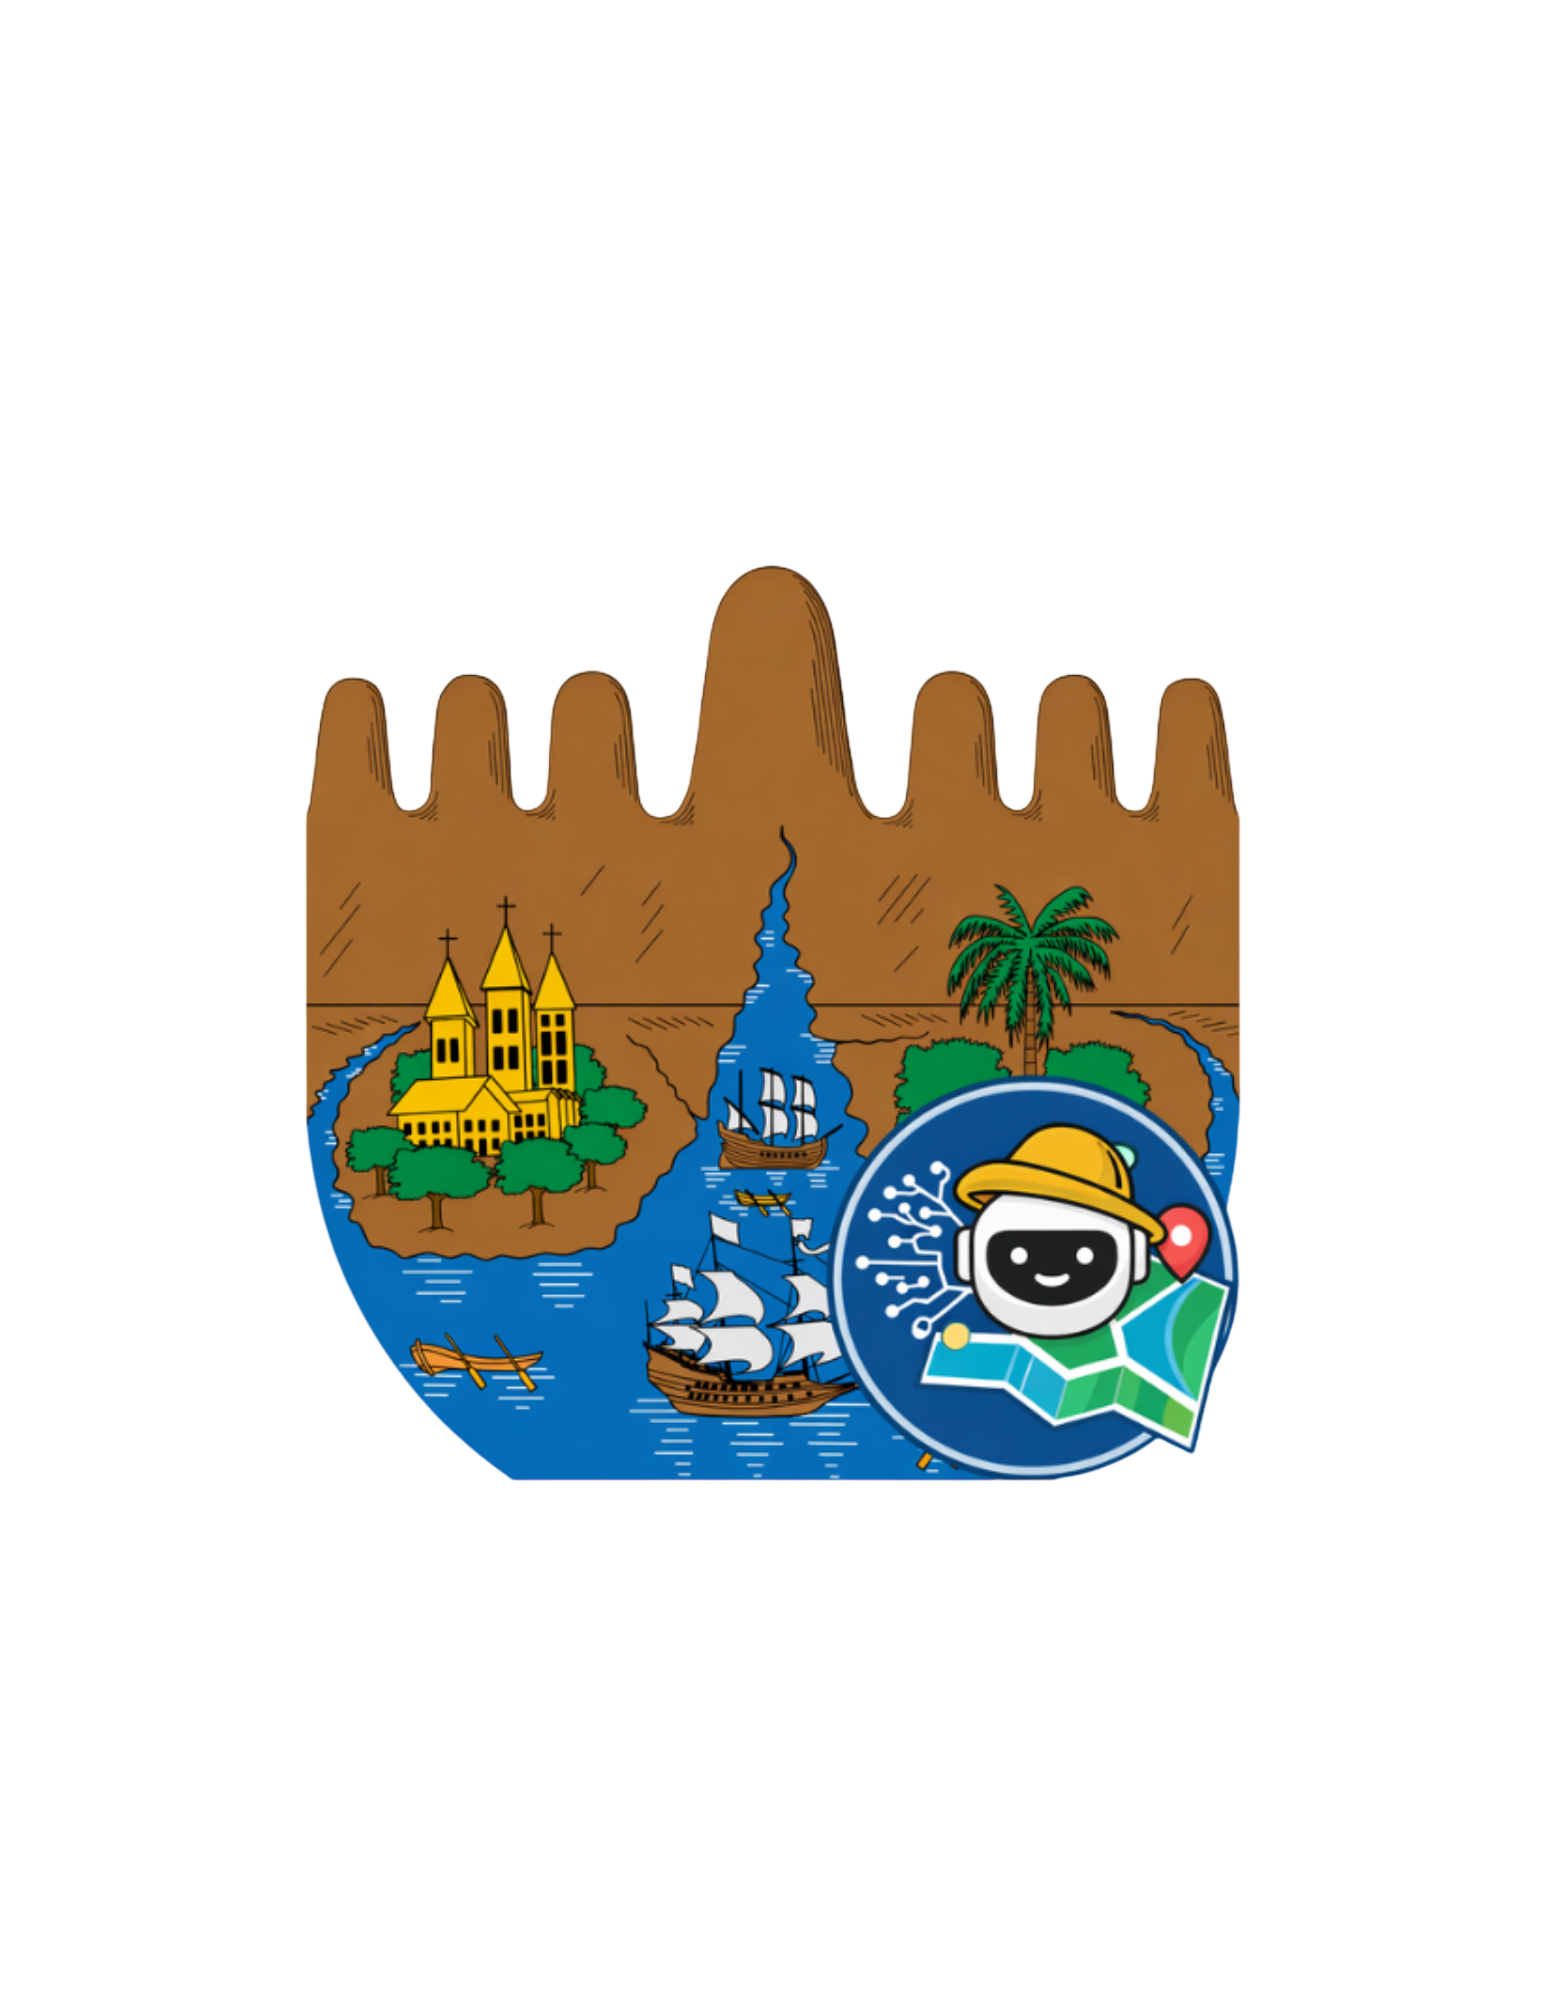
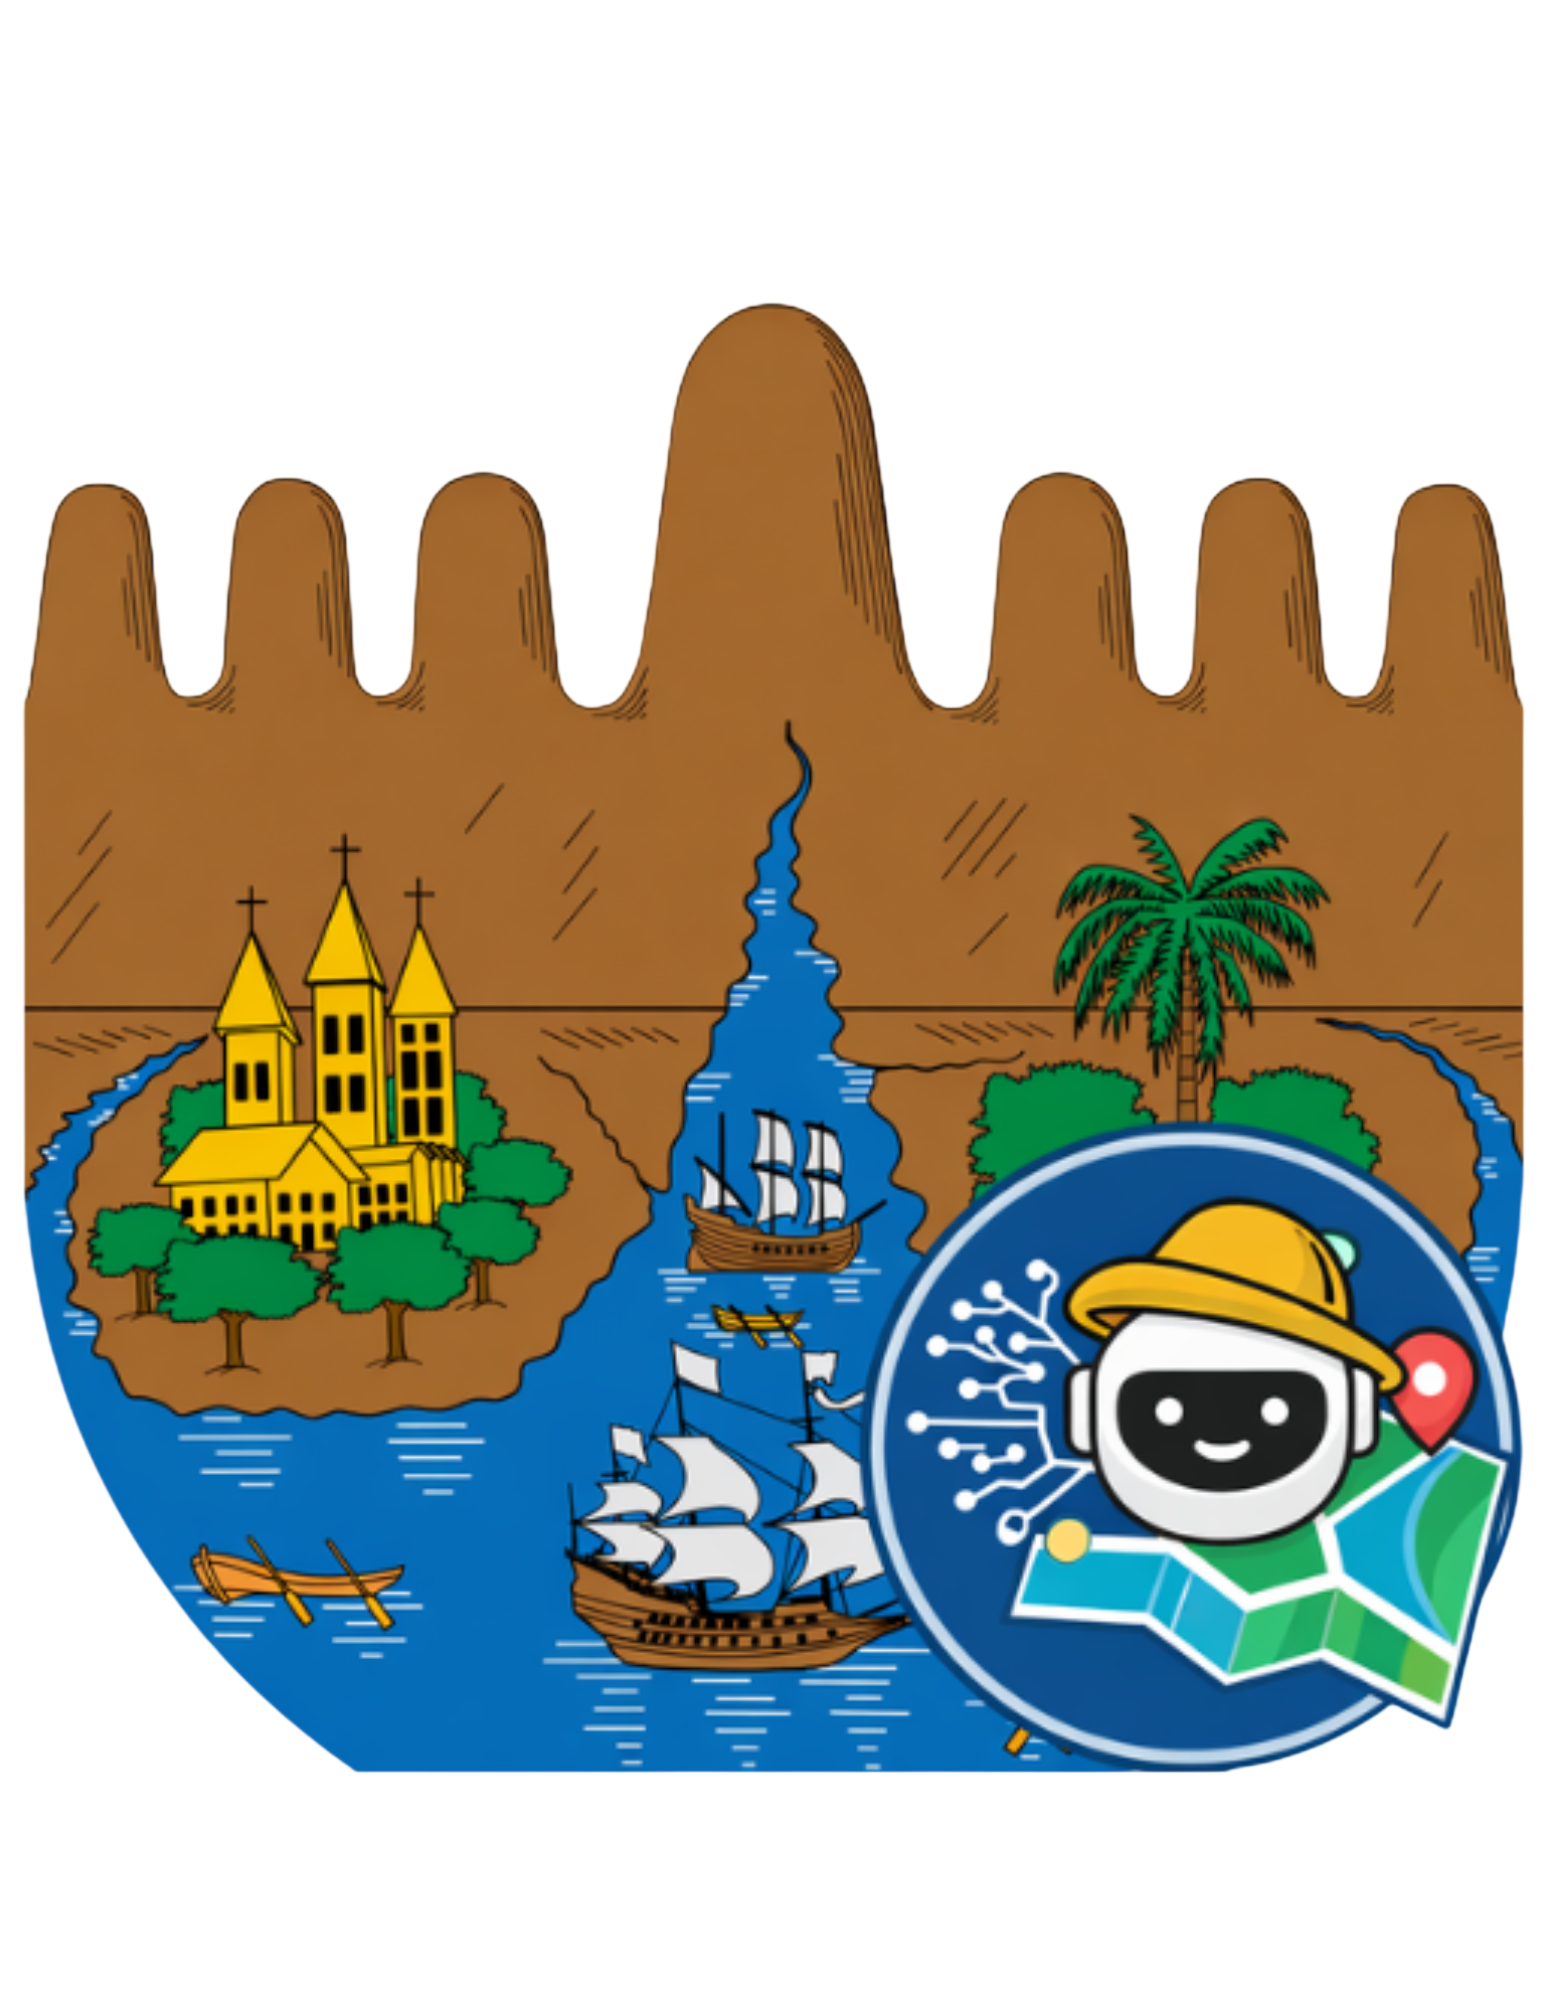
feat(ui): enhance profile modals and update application assets
- Implement React Portals in `BusinessModal` and `HotelModal` for better DOM placement
- Add mounting state checks to prevent hydration mismatches in modals
- Enhance `BusinessModal` with a photo gallery navigation and category-based product filtering
- Update modal z-index and layout spacing for improved visual consistency
- Update application icons, favicon, and badge assets

diff --git a/components/profile/BusinessModal.tsx b/components/profile/BusinessModal.tsx
@@ -1,8 +1,9 @@
 "use client";
 
 import { useEffect, useState } from "react";
+import { createPortal } from "react-dom";
 import { motion, AnimatePresence } from "framer-motion";
-import { X, Star, MapPin, ExternalLink, Phone, Globe, BookOpen } from "lucide-react";
+import { X, Star, MapPin, ExternalLink, Phone, Globe, BookOpen, ArrowLeft, Search, ChevronLeft, ChevronRight } from "lucide-react";
 import { useMap } from "@/hooks/UseMap";
 import { useTranslations } from "next-intl";
 
@@ -16,10 +17,21 @@ export function BusinessModal({ placeId, onClose }: BusinessModalProps) {
     const { mapInstance } = useMap();
     const [details, setDetails] = useState<google.maps.places.PlaceResult | null>(null);
     const [loading, setLoading] = useState(false);
+    const [view, setView] = useState<"profile" | "catalog">("profile");
+    const [activeCategory, setActiveCategory] = useState("Todo");
+    const [mounted, setMounted] = useState(false);
+    const [galleryIndex, setGalleryIndex] = useState(0);
+
+    useEffect(() => {
+        setMounted(true);
+    }, []);
 
     useEffect(() => {
         if (!placeId || !mapInstance?.current) return;
         setDetails(null);
+        setView("profile");
+        setActiveCategory("Todo");
+        setGalleryIndex(0);
         setLoading(true);
         const service = new google.maps.places.PlacesService(mapInstance.current);
         service.getDetails(
@@ -36,21 +48,29 @@ export function BusinessModal({ placeId, onClose }: BusinessModalProps) {
         );
     }, [placeId, mapInstance]);
 
-    if (!placeId) return null;
+    if (!placeId || !mounted) return null;
 
     const profilePic = details?.photos?.[0]?.getUrl({ maxWidth: 200, maxHeight: 200 }) || details?.icon;
-    const gallery = details?.photos?.slice(1, 3).map(p => p.getUrl({ maxWidth: 300, maxHeight: 300 })) || [];
+    const gallery = details?.photos?.map(p => p.getUrl({ maxWidth: 700, maxHeight: 500 })) || [];
+    const visibleGallery = gallery.length > 1
+        ? [gallery[galleryIndex % gallery.length], gallery[(galleryIndex + 1) % gallery.length]]
+        : gallery;
     const isOpen = details?.opening_hours?.isOpen?.() ?? true;
     const rating = details?.rating ?? 5;
     const totalReviews = details?.user_ratings_total ?? 0;
+    const visibleProducts = activeCategory === "Todo"
+        ? MOCK_PRODUCTS
+        : MOCK_PRODUCTS.filter(product => product.category === activeCategory);
+    const goToPreviousPhoto = () => setGalleryIndex(index => (index - 1 + gallery.length) % gallery.length);
+    const goToNextPhoto = () => setGalleryIndex(index => (index + 1) % gallery.length);
 
-    return (
+    return createPortal(
         <AnimatePresence>
             <motion.div
                 initial={{ opacity: 0 }}
                 animate={{ opacity: 1 }}
                 exit={{ opacity: 0 }}
-                className="fixed inset-0 z-9999 bg-black/60 backdrop-blur-sm flex flex-col items-center pt-[12vh] pb-[5vh] md:pt-[20vh] md:pb-[10vh] px-4"
+                className="fixed inset-0 z-[9999] bg-black/60 backdrop-blur-sm flex flex-col items-center pt-[9vh] pb-[5vh] md:pt-[14vh] md:pb-[10vh] px-4"
                 onClick={onClose}
             >
                 <motion.div
@@ -58,7 +78,7 @@ export function BusinessModal({ placeId, onClose }: BusinessModalProps) {
                     animate={{ opacity: 1, y: 0, scale: 1 }}
                     exit={{ opacity: 0, y: 20, scale: 0.95 }}
                     transition={{ type: "spring", damping: 25, stiffness: 300 }}
-                    className="bg-[#f9fafb] w-full max-w-md rounded-[32px] shadow-2xl overflow-y-auto min-h-0 relative no-scrollbar shrink"
+                    className={`bg-[#f9fafb] w-full shadow-2xl overflow-y-auto min-h-0 relative no-scrollbar shrink transition-all ${view === "catalog" ? "max-w-6xl rounded-[22px] h-[82vh]" : "max-w-md rounded-[32px]"}`}
                     onClick={(e) => e.stopPropagation()}
                 >
                     {/* Close Button */}
@@ -69,7 +89,93 @@ export function BusinessModal({ placeId, onClose }: BusinessModalProps) {
                         <X size={18} strokeWidth={2.5} />
                     </button>
 
-                    {loading ? (
+                    {view === "catalog" ? (
+                        <div className="min-h-full bg-[#f7f6f3] text-zinc-950">
+                            <div className="sticky top-0 z-10 border-b border-zinc-200 bg-[#f7f6f3]/95 backdrop-blur px-4 py-4 md:px-8">
+                                <div className="mx-auto flex max-w-5xl items-center justify-between gap-4">
+                                    <div className="flex min-w-0 items-center gap-3">
+                                        <button
+                                            onClick={() => setView("profile")}
+                                            className="flex h-11 w-11 shrink-0 items-center justify-center rounded-md border border-zinc-200 bg-white text-zinc-800 shadow-sm transition-colors hover:bg-zinc-50"
+                                            aria-label="Volver al perfil"
+                                        >
+                                            <ArrowLeft size={20} />
+                                        </button>
+                                        <div className="h-11 w-11 shrink-0 overflow-hidden rounded-full border border-white bg-zinc-200 shadow-sm">
+                                            {profilePic ? (
+                                                <img src={profilePic} alt={details?.name || "Catálogo"} className="h-full w-full object-cover" />
+                                            ) : (
+                                                <div className="flex h-full w-full items-center justify-center">
+                                                    <BookOpen className="h-5 w-5 text-zinc-400" />
+                                                </div>
+                                            )}
+                                        </div>
+                                        <div className="min-w-0">
+                                            <p className="text-[10px] font-black uppercase tracking-[0.16em] text-zinc-400">Catálogo</p>
+                                            <h2 className="truncate text-[17px] font-black leading-tight text-zinc-900">{details?.name || "Romeo Cargo Bike"}</h2>
+                                        </div>
+                                    </div>
+                                    <div className="shrink-0 text-right">
+                                        <p className="text-3xl font-black leading-none text-zinc-900">{MOCK_PRODUCTS.length}</p>
+                                        <p className="text-[10px] font-black uppercase tracking-[0.16em] text-zinc-400">Productos</p>
+                                    </div>
+                                </div>
+
+                                <div className="mx-auto mt-5 max-w-5xl">
+                                    <div className="flex h-14 items-center gap-3 border border-zinc-200 bg-white px-4 text-zinc-400">
+                                        <Search size={20} />
+                                        <input
+                                            placeholder="Buscar producto, SKU o categoría..."
+                                            className="h-full min-w-0 flex-1 bg-transparent text-[16px] font-medium text-zinc-800 outline-none placeholder:text-zinc-400"
+                                        />
+                                    </div>
+                                    <div className="mt-4 flex gap-2 overflow-x-auto pb-1">
+                                        {MOCK_CATEGORIES.map(category => (
+                                            <button
+                                                key={category}
+                                                onClick={() => setActiveCategory(category)}
+                                                className={`h-9 shrink-0 border px-4 text-[11px] font-black uppercase tracking-[0.12em] transition-colors ${activeCategory === category ? "border-zinc-950 bg-zinc-950 text-white" : "border-zinc-200 bg-white text-zinc-500 hover:text-zinc-900"}`}
+                                            >
+                                                {category}
+                                            </button>
+                                        ))}
+                                    </div>
+                                </div>
+                            </div>
+
+                            <div className="mx-auto grid max-w-5xl grid-cols-1 gap-4 px-4 py-8 sm:grid-cols-2 lg:grid-cols-4 md:px-8">
+                                {visibleProducts.map(product => (
+                                    <article key={product.sku} className="overflow-hidden border border-zinc-200 bg-white shadow-sm">
+                                        <div className="relative aspect-square bg-zinc-100">
+                                            <img src={product.image} alt={product.name} className="h-full w-full object-cover" />
+                                            <span className="absolute right-3 top-3 rounded bg-emerald-500 px-3 py-1 text-[10px] font-black uppercase tracking-[0.12em] text-white">
+                                                Consultar
+                                            </span>
+                                            <span className="absolute bottom-3 left-3 bg-zinc-950/75 px-2 py-1 text-[10px] font-black uppercase tracking-[0.08em] text-white">
+                                                {product.category}
+                                            </span>
+                                        </div>
+                                        <div className="border-b border-zinc-100 px-3 py-2">
+                                            <div className="flex gap-1 overflow-x-auto pb-1">
+                                                {product.thumbs.map((thumb, index) => (
+                                                    <div key={`${product.sku}-${index}`} className="h-11 w-11 shrink-0 border border-zinc-200 bg-zinc-100">
+                                                        <img src={thumb} alt="" className="h-full w-full object-cover" />
+                                                    </div>
+                                                ))}
+                                            </div>
+                                        </div>
+                                        <div className="px-4 py-4">
+                                            <h3 className="min-h-[44px] text-[16px] font-black leading-tight text-zinc-950">{product.name}</h3>
+                                            <div className="mt-3 border-t border-zinc-200 pt-3">
+                                                <p className="text-[20px] font-black text-zinc-950">{product.price}</p>
+                                                <p className="mt-1 text-[10px] font-bold uppercase tracking-[0.1em] text-zinc-400">SKU {product.sku}</p>
+                                            </div>
+                                        </div>
+                                    </article>
+                                ))}
+                            </div>
+                        </div>
+                    ) : loading ? (
                         <div className="flex flex-col items-center justify-center py-24">
                             <div className="w-10 h-10 border-4 border-zinc-200 border-t-zinc-800 rounded-full animate-spin mb-4" />
                             <p className="text-zinc-500 text-sm font-medium">{t("loadingProfile")}</p>
@@ -119,13 +225,35 @@ export function BusinessModal({ placeId, onClose }: BusinessModalProps) {
                             </a>
 
                             {/* Photos Gallery */}
-                            {gallery.length > 0 && (
-                                <div className="flex gap-3 w-full mb-6">
-                                    {gallery.map((url, idx) => (
-                                        <div key={idx} className="flex-1 rounded-2xl overflow-hidden shadow-sm" style={{ aspectRatio: "4/3" }}>
-                                            <img src={url} alt="Gallery" className="w-full h-full object-cover" />
-                                        </div>
-                                    ))}
+                            {visibleGallery.length > 0 && (
+                                <div className="relative w-full mb-6">
+                                    <div className="grid grid-cols-2 gap-3">
+                                        {visibleGallery.map((url, idx) => (
+                                            <div key={`${url}-${idx}`} className="overflow-hidden rounded-2xl bg-zinc-100 shadow-sm ring-1 ring-black/5" style={{ aspectRatio: "4/3" }}>
+                                                <img src={url} alt={`${details?.name || "Negocio"} foto ${idx + 1}`} className="w-full h-full object-cover" />
+                                            </div>
+                                        ))}
+                                    </div>
+                                    {gallery.length > 2 && (
+                                        <>
+                                            <button
+                                                type="button"
+                                                onClick={goToPreviousPhoto}
+                                                className="absolute left-2 top-1/2 flex h-10 w-10 -translate-y-1/2 items-center justify-center rounded-full bg-white text-zinc-800 shadow-lg ring-1 ring-black/5 transition-transform active:scale-95"
+                                                aria-label="Foto anterior"
+                                            >
+                                                <ChevronLeft size={20} strokeWidth={2.5} />
+                                            </button>
+                                            <button
+                                                type="button"
+                                                onClick={goToNextPhoto}
+                                                className="absolute right-2 top-1/2 flex h-10 w-10 -translate-y-1/2 items-center justify-center rounded-full bg-white text-zinc-800 shadow-lg ring-1 ring-black/5 transition-transform active:scale-95"
+                                                aria-label="Siguiente foto"
+                                            >
+                                                <ChevronRight size={20} strokeWidth={2.5} />
+                                            </button>
+                                        </>
+                                    )}
                                 </div>
                             )}
 
@@ -151,7 +279,7 @@ export function BusinessModal({ placeId, onClose }: BusinessModalProps) {
                                 </a>
 
                                 {/* Catalog */}
-                                <button className="bg-white border border-zinc-200 rounded-xl p-4 flex items-center justify-between hover:bg-zinc-50 transition-colors shadow-sm">
+                                <button onClick={() => setView("catalog")} className="bg-white border border-zinc-200 rounded-xl p-4 flex items-center justify-between hover:bg-zinc-50 transition-colors shadow-sm">
                                     <div className="flex items-center gap-3">
                                         <div className="w-10 h-10 bg-zinc-900 rounded-lg flex items-center justify-center text-white">
                                             <BookOpen size={20} />
@@ -204,9 +332,94 @@ export function BusinessModal({ placeId, onClose }: BusinessModalProps) {
                     )}
                 </motion.div>
             </motion.div>
-        </AnimatePresence>
+        </AnimatePresence>,
+        document.body
     );
 }
+
+const MOCK_CATEGORIES = ["Todo", "Fashion", "Deportes"];
+
+const MOCK_PRODUCTS = [
+    {
+        sku: "CG-1048",
+        name: "Gorra Oveja Negra",
+        price: "$45.000",
+        category: "Fashion",
+        image: "https://images.unsplash.com/photo-1588850561407-ed78c282e89b?auto=format&fit=crop&w=800&q=80",
+        thumbs: [
+            "https://images.unsplash.com/photo-1588850561407-ed78c282e89b?auto=format&fit=crop&w=160&q=80",
+            "https://images.unsplash.com/photo-1521369909029-2afed882baee?auto=format&fit=crop&w=160&q=80",
+            "https://images.unsplash.com/photo-1572307480813-ceb0e59d8325?auto=format&fit=crop&w=160&q=80",
+        ],
+    },
+    {
+        sku: "CG-2081",
+        name: "Gorras Urbanas",
+        price: "$47.000",
+        category: "Fashion",
+        image: "https://images.unsplash.com/photo-1521369909029-2afed882baee?auto=format&fit=crop&w=800&q=80",
+        thumbs: [
+            "https://images.unsplash.com/photo-1521369909029-2afed882baee?auto=format&fit=crop&w=160&q=80",
+            "https://images.unsplash.com/photo-1572307480813-ceb0e59d8325?auto=format&fit=crop&w=160&q=80",
+        ],
+    },
+    {
+        sku: "CG-3014",
+        name: "Gorras Deportivo Cali",
+        price: "$40.000",
+        category: "Deportes",
+        image: "https://images.unsplash.com/photo-1540747913346-19e32dc3e97e?auto=format&fit=crop&w=800&q=80",
+        thumbs: [
+            "https://images.unsplash.com/photo-1540747913346-19e32dc3e97e?auto=format&fit=crop&w=160&q=80",
+            "https://images.unsplash.com/photo-1575428652377-a2d80e2277fc?auto=format&fit=crop&w=160&q=80",
+        ],
+    },
+    {
+        sku: "CG-4420",
+        name: "Gorras NY",
+        price: "$45.000",
+        category: "Fashion",
+        image: "https://images.unsplash.com/photo-1575428652377-a2d80e2277fc?auto=format&fit=crop&w=800&q=80",
+        thumbs: [
+            "https://images.unsplash.com/photo-1575428652377-a2d80e2277fc?auto=format&fit=crop&w=160&q=80",
+            "https://images.unsplash.com/photo-1588850561407-ed78c282e89b?auto=format&fit=crop&w=160&q=80",
+            "https://images.unsplash.com/photo-1521369909029-2afed882baee?auto=format&fit=crop&w=160&q=80",
+        ],
+    },
+    {
+        sku: "CG-5109",
+        name: "Gorra Cabalgata Negra",
+        price: "$52.000",
+        category: "Fashion",
+        image: "https://images.unsplash.com/photo-1534778356534-d3d45b6df1da?auto=format&fit=crop&w=800&q=80",
+        thumbs: [
+            "https://images.unsplash.com/photo-1534778356534-d3d45b6df1da?auto=format&fit=crop&w=160&q=80",
+            "https://images.unsplash.com/photo-1588850561407-ed78c282e89b?auto=format&fit=crop&w=160&q=80",
+        ],
+    },
+    {
+        sku: "CG-6193",
+        name: "Gorra Bike Trail",
+        price: "$49.000",
+        category: "Deportes",
+        image: "https://images.unsplash.com/photo-1544191696-15693072e10f?auto=format&fit=crop&w=800&q=80",
+        thumbs: [
+            "https://images.unsplash.com/photo-1544191696-15693072e10f?auto=format&fit=crop&w=160&q=80",
+            "https://images.unsplash.com/photo-1521369909029-2afed882baee?auto=format&fit=crop&w=160&q=80",
+        ],
+    },
+    {
+        sku: "CG-7305",
+        name: "Pack Estadio Edición Cali",
+        price: "$58.000",
+        category: "Deportes",
+        image: "https://images.unsplash.com/photo-1508098682722-e99c43a406b2?auto=format&fit=crop&w=800&q=80",
+        thumbs: [
+            "https://images.unsplash.com/photo-1508098682722-e99c43a406b2?auto=format&fit=crop&w=160&q=80",
+            "https://images.unsplash.com/photo-1540747913346-19e32dc3e97e?auto=format&fit=crop&w=160&q=80",
+        ],
+    },
+];
 
 function SocialLink({ icon, title, href = "#" }: { icon: React.ReactNode; title: string; href?: string }) {
     return (

diff --git a/components/profile/HotelModal.tsx b/components/profile/HotelModal.tsx
@@ -1,6 +1,7 @@
 "use client";
 
-import { useState } from "react";
+import { useEffect, useState } from "react";
+import { createPortal } from "react-dom";
 import { motion, AnimatePresence } from "framer-motion";
 import { X, Star, Bed, Calendar, ExternalLink } from "lucide-react";
 import { useTranslations } from "next-intl";
@@ -100,8 +101,13 @@ export function HotelModal({ hotel, onClose }: HotelModalProps) {
     const [adults, setAdults] = useState(2);
     const [rooms, setRooms] = useState(1);
     const [clicking, setClicking] = useState<string | null>(null);
+    const [mounted, setMounted] = useState(false);
 
-    if (!hotel) return null;
+    useEffect(() => {
+        setMounted(true);
+    }, []);
+
+    if (!hotel || !mounted) return null;
 
     const rating = hotel.reviews?.rating ?? 0;
     const count = hotel.reviews?.count;
@@ -136,13 +142,13 @@ export function HotelModal({ hotel, onClose }: HotelModalProps) {
     const adultLabel = adults === 1 ? t("adultSingular", { count: adults }) : t("adultPlural", { count: adults });
     const roomLabel = rooms === 1 ? t("roomSingular", { count: rooms }) : t("roomPlural", { count: rooms });
 
-    return (
+    return createPortal(
         <AnimatePresence>
             <motion.div
                 initial={{ opacity: 0 }}
                 animate={{ opacity: 1 }}
                 exit={{ opacity: 0 }}
-                className="fixed inset-0 z-9999 bg-black/60 backdrop-blur-sm flex flex-col items-center pt-[12vh] pb-[5vh] md:pt-[20vh] md:pb-[10vh] px-4"
+                className="fixed inset-0 z-[9999] bg-black/60 backdrop-blur-sm flex flex-col items-center pt-[9vh] pb-[5vh] md:pt-[14vh] md:pb-[10vh] px-4"
                 onClick={onClose}
             >
                 <motion.div
@@ -303,6 +309,7 @@ export function HotelModal({ hotel, onClose }: HotelModalProps) {
                     </div>
                 </motion.div>
             </motion.div>
-        </AnimatePresence>
+        </AnimatePresence>,
+        document.body
     );
 }